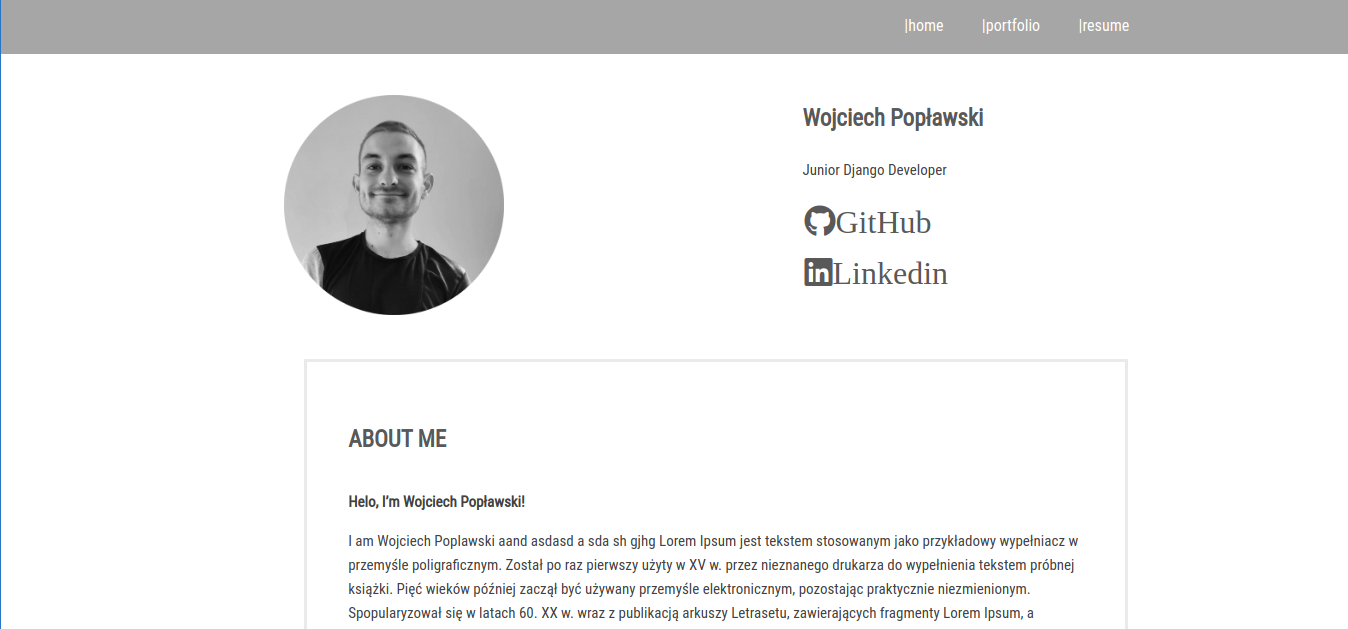
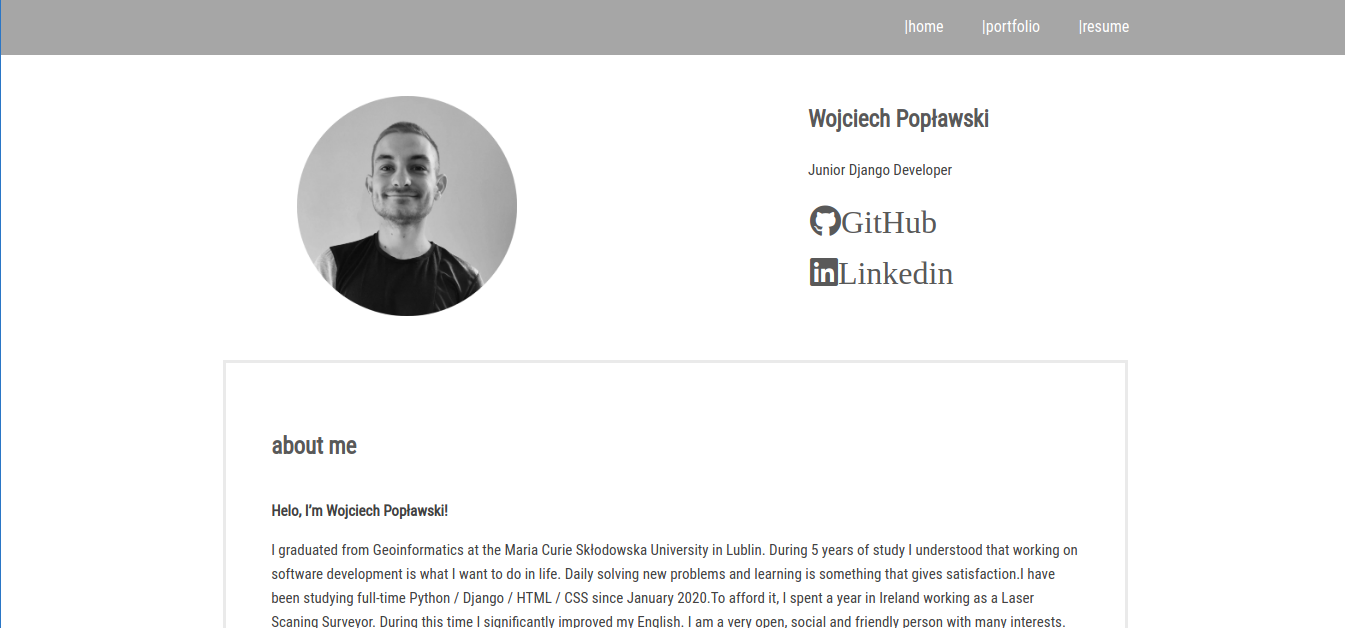
version 1.2

diff --git a/portfolio_app/templates/main.html b/portfolio_app/templates/main.html
@@ -49,12 +49,14 @@
         <div class="aboutme">
             <h1>about me </h1>
             <p style="font-weight:bold;"> Helo, I’m Wojciech Popławski!</p>
-            <p> I am Wojciech Poplawski aand asdasd a sda sh gjhg Lorem Ipsum jest tekstem stosowanym jako przykładowy
-                wypełniacz w przemyśle poligraficznym. Został po raz pierwszy użyty w XV w. przez nieznanego drukarza do
-                wypełnienia tekstem próbnej książki. Pięć wieków później zaczął być używany przemyśle elektronicznym,
-                pozostając praktycznie niezmienionym. Spopularyzował się w latach 60. XX w. wraz z publikacją arkuszy
-                Letrasetu, zawierających fragmenty Lorem Ipsum, a ostatnio z zawierającym różne wersje Lorem Ipsum
-                oprogramowaniem przeznaczonym do realizacji druków na komputerach osobistych, jak Aldus PageMaker</p>
+            <p> I graduated from Geoinformatics at the Maria Curie Skłodowska University in Lublin. During 5 years of
+                study I understood that working on software development is what I want to do in life. Daily solving new
+                problems and learning is something that gives satisfaction.I have been studying full-time Python /
+                Django / HTML / CSS since January 2020.To afford it, I spent a year in Ireland working as a Laser
+                Scaning Surveyor. During this time I significantly improved my English. I am a very open, social and
+                friendly person with many interests. Good work environment is very important for me. I am looking for my
+                first job or internship as a Junior Web Developer. If you want to know more about
+                me, check my portfolio, github and linkedin. If you have any questions, please contact me ! :)</p>
         </div>
         <div class="informations">
             <div class="linfo">
@@ -116,7 +118,7 @@
 
 </div>
 <p id="footer">© 2020 Copyright:
-    <a href="https://mdbootstrap.com/"> MDBootstrap.com</a></p>
+    <a href="https://myplacein.herokuapp.com/"> MyPlaceIn</a></p>
 
 
 </body>

diff --git a/portfolio_app/templates/resume.html b/portfolio_app/templates/resume.html
@@ -40,8 +40,9 @@
         </div>
     </div>
     <div class="content">
-         <div class="aboutme">
-            <h1>Download .pdf resume </h1>
+         <div class="aboutme" style="text-align:center; border-style:none;">
+             <a href="/static/img/Wojciech_Popławski_CV.pdf" download style="text-align:left;text-decoration: none;"> <h1>DOWNLOAD </h1> </a>
+
             <img src="/static/img/resume.jpg" alt="checker"
                  style="height:1100px;">
 
@@ -50,6 +51,6 @@
 
 </div>
 <p id="footer">© 2020 Copyright:
-    <a href="https://mdbootstrap.com/"> MDBootstrap.com</a></p>
+        <a href="https://myplacein.herokuapp.com/"> MyPlaceIn</a></p>
 </body>
 </html>

diff --git a/portfolio_app/templates/portfolio.html b/portfolio_app/templates/portfolio.html
@@ -94,7 +94,7 @@
 
 </div>
 <p id="footer">© 2020 Copyright:
-    <a href="https://mdbootstrap.com/"> MDBootstrap.com</a></p>
+        <a href="https://myplacein.herokuapp.com/"> MyPlaceIn</a></p>
 
 
 </body>
